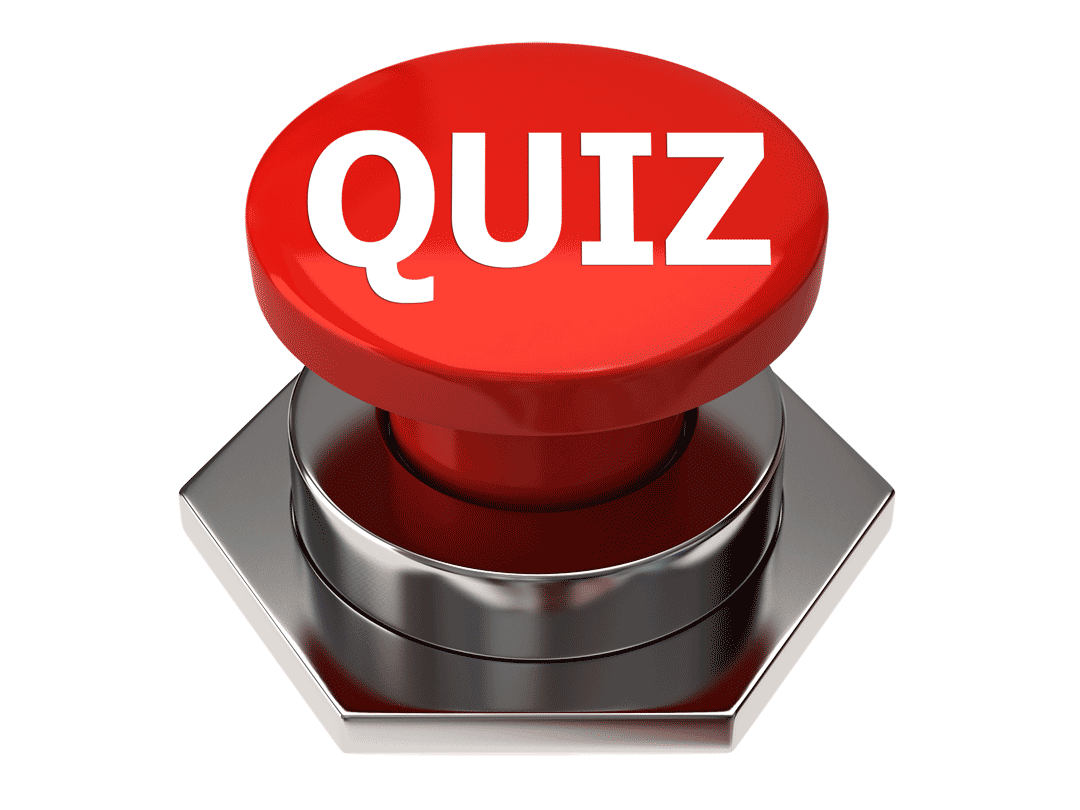
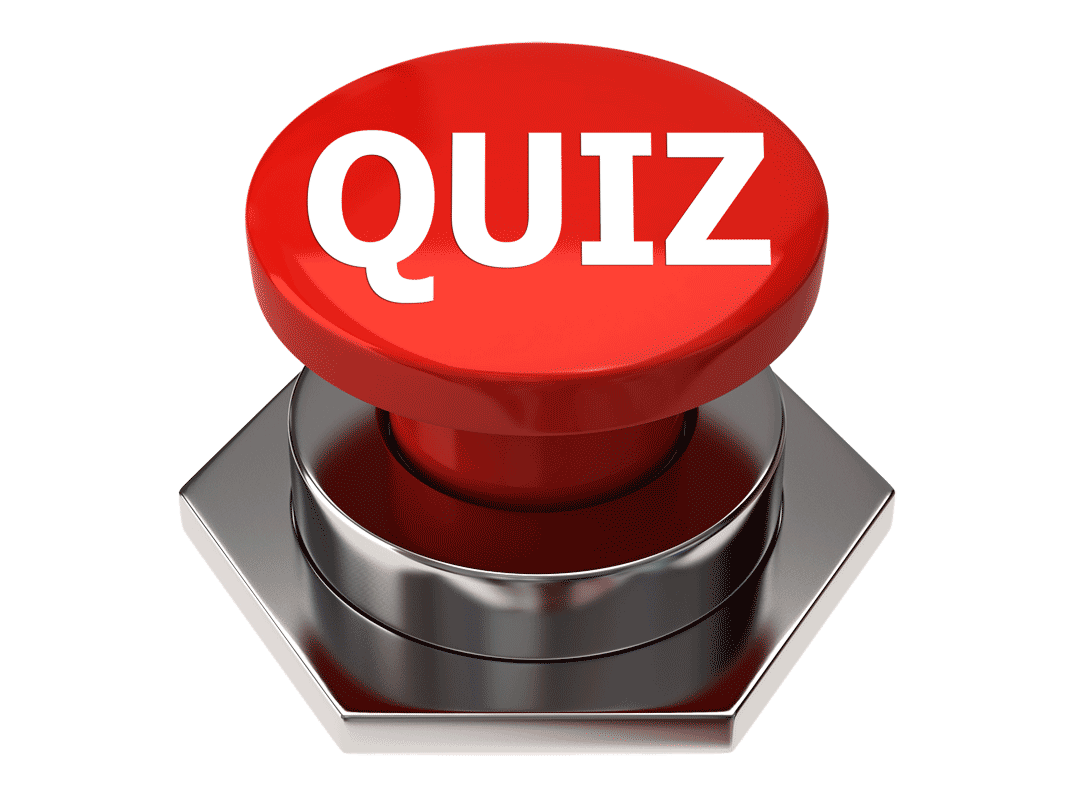
Bug fix

diff --git a/game.ts b/game.ts
@@ -5,7 +5,6 @@ import { Buzzer } from './buzzer';
 import { WebGameUI } from './web_game_ui';
 import { WebMasterUI } from './web_master_ui';
 import { GameUI } from './game_ui';
-import { UI } from './ui';
 
 export interface Team {
 	name: string;

diff --git a/public/template/teams.html b/public/template/teams.html
@@ -23,7 +23,7 @@
 
 <div class="step0 row vertical-align" ng-show="game.step == 0">
 	<div class="col-xs-12 center-text text-center">
-			<img src="/images/Quiz.gif" />
+			<img src="/images/Quiz.png" />
 	</div>
 </div>
 
